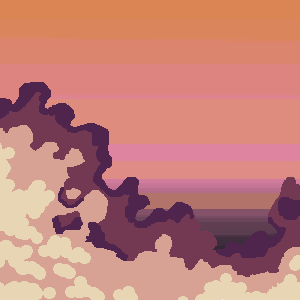
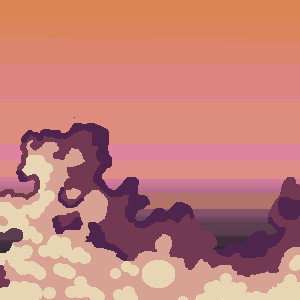
new stuff and some changes

diff --git a/scripts/main.py b/scripts/main.py
@@ -154,7 +154,7 @@ in_sunset = True
 in_sunset_2 = True
 in_void = True
 
-player_speed = 1050
+player_speed = 150
 move_left = False
 move_right = False
 
@@ -261,7 +261,7 @@ while running:
         player_x = player_x + 10
         minigame1_started = True
 
-    if player_x >= 4200 and not minigame2_started:
+    if player_x >= 6120 and not minigame2_started:
         game2()
         player_x = player_x + 10
         minigame2_started = True

diff --git a/scripts/display.py b/scripts/display.py
@@ -71,7 +71,7 @@ def render_key4(screen, art):
 
 # Transition bgs
 def RenderSunsetToDungeon(screen, art, camera_x):
-    screen.blit(art["sunset_to_dungeon"], (5500 - camera_x, -150))
+    screen.blit(art["sunset_to_dungeon"], (5750 - camera_x, -150))
     
 def RenderDungeonToVoid(screen, art, camera_x):
     screen.blit(art["dungeon_to_void"], (11650 - camera_x, -150))

diff --git a/scripts/text.py b/scripts/text.py
@@ -44,7 +44,7 @@ def disclaimer_screen():
         Disclaimer_text()
 
         current_time = pygame.time.get_ticks()
-        if current_time - start_time >= 3000:
+        if current_time - start_time >= 1000:
             show_key = True
 
         if show_key:

diff --git a/scripts/thanks.py b/scripts/thanks.py
@@ -57,7 +57,7 @@ def ThanksToDevsScreen():
         ThanksToDevsScreenText()
 
         current_time = pygame.time.get_ticks()
-        if current_time - start_time >= 1000:
+        if current_time - start_time >= 500:
             show_key = True
 
         if show_key: